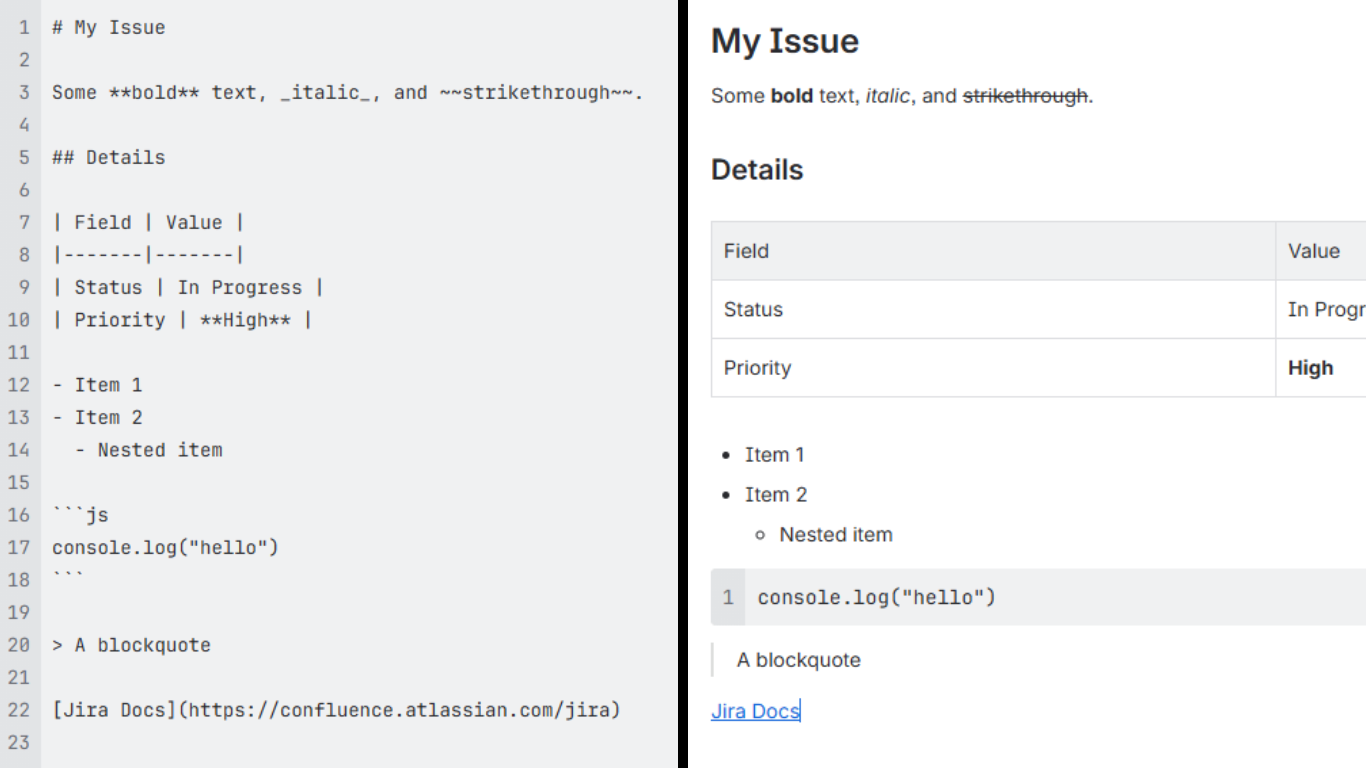
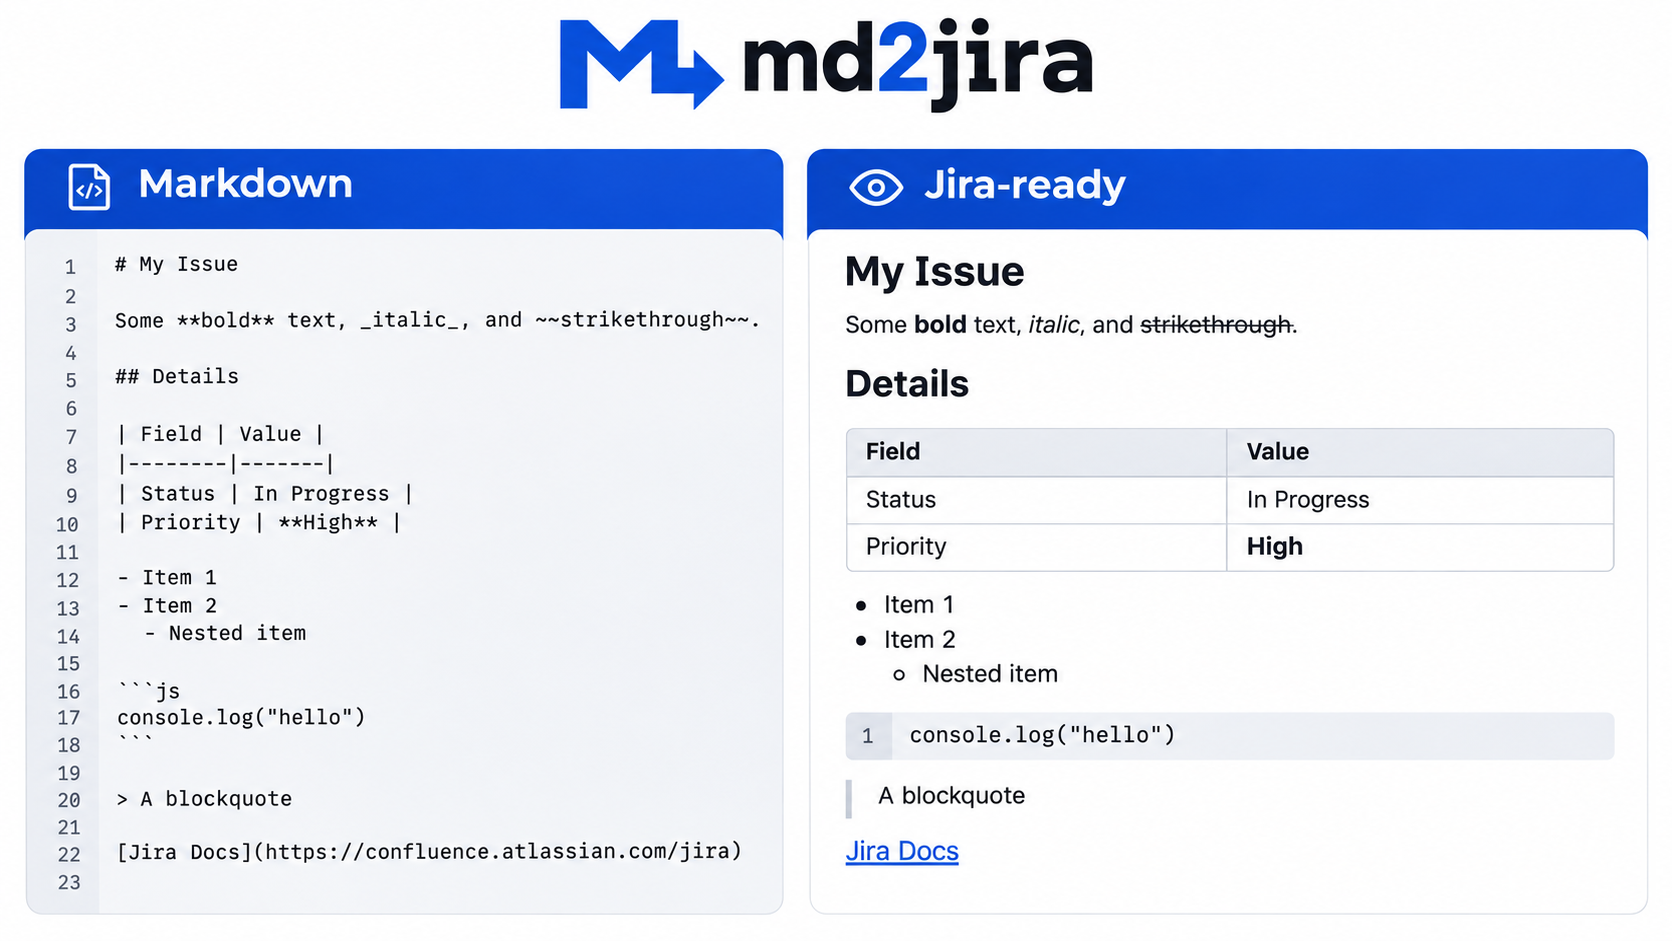
docs: preserve md2jira design system
Why:
- Keep future visual changes aligned with the approved identity.

What:
- Preserve both original design images and document their usage.
- Reference the design system from AGENTS.md.
- Refresh documentation images without changing their filenames.
- Preserve the original Buy Me a Coffee artwork in the app capture.

Validation:
- Checked reference paths, formatting, and diff whitespace.
- Visually inspected the images and actual application capture.

Changed region(s): [[0.0, 0.0, 1.0, 1.0], [0.9531, 0.375, 1.0, 0.4375], [0.9224, 0.3125, 0.9839, 0.3438]]

diff --git a/output/brandkit/DESIGN.md b/output/brandkit/DESIGN.md
@@ -1,0 +1,51 @@
+# md2jira design system
+
+This directory preserves the approved visual identity and its original images. These files are design references; the application does not load them at runtime.
+
+## Approved references
+
+- [Identity concept board](md2jira-brand-concept.png): symbol, wordmark, palette, and examples of brand applications.
+- [Original transparent logo](md2jira-logo-transparent.png): horizontal logo artwork on a transparent background.
+
+Keep both originals and their filenames. Use the board as visual direction, not as a specification of application features or an exact screenshot of the interface.
+
+## Meaning and logo
+
+The symbol combines the **M of Markdown with a rightward conversion arrow** in one geometric shape. It represents transferring document structure between formats. The guiding phrase is: “Cambia el formato. Conserva la estructura.”
+
+- Write the brand as **md2jira**, in lowercase, with the numeral **2** highlighted in blue.
+- Preserve the symbol's proportions and integrated arrow. Do not stretch, redraw, or add effects to the mark independently across applications.
+- Use the existing vector geometry in `apps/web/public/icon.svg`, `apps/web/public/favicon.svg`, and `apps/web/src/components/Header.tsx` for production rendering. The PNG originals are raster references.
+- Use a white symbol on blue for app icons. The header uses a blue symbol with dark lettering in light mode and light lettering in dark mode.
+
+## Color
+
+| Role          | Approved reference |
+| ------------- | ------------------ |
+| Primary blue  | `#1D4ED8`          |
+| Ink           | `#111318`          |
+| Light surface | `#F5F6F8`          |
+| White         | `#FFFFFF`          |
+
+The interface retains its existing Tailwind neutral surfaces and text colors. In the header, `blue-700` is the light-mode accent and `blue-400` is the dark-mode accent. Preserve those existing theme adaptations and readable contrast; do not force every interface color to match the presentation board.
+
+## Typography and interface
+
+- Follow the bold sans-serif wordmark direction shown in the originals. No specific font family is established by the generated artwork; the current header uses the application's existing sans-serif stack, bold weight, and tight tracking.
+- Reserve monospace for Markdown, code, and syntax examples.
+- Keep the converter focused on its input and output, with restrained blue accents, clear alignment, and generous whitespace.
+- Reuse existing components, spacing, controls, and responsive behavior. Branding work alone does not authorize changing functionality or rebuilding the layout.
+- Keep the header readable on mobile and desktop in both themes. Decorative logo geometry must not add duplicate accessible names.
+
+## Icons and documentation images
+
+- The production icon source is `apps/web/public/icon.svg`; icon generation is configured in `pwa-assets.config.ts`.
+- Regenerate the existing PNG and ICO files with `pnpm exec pwa-assets-generator --config pwa-assets.config.ts` from the repository root when the source changes.
+- Preserve the opaque blue background for Apple and Android maskable icons and keep the symbol inside the maskable safe zone. Keep manifest and icon URLs compatible with deployments under `/md2jira/`.
+- Preserve the three existing filenames in `.github/assets` when updating documentation imagery.
+- Capture the actual application for the main overview image. Wait for the original Buy Me a Coffee image to load; do not capture its fallback button as if it were the original artwork.
+- Before/after illustrations must retain accurate Markdown and converted output and must not invent product features.
+
+## Verification
+
+For future visual changes, inspect the rendered result on desktop and mobile in light and dark themes. For icon changes, check generated sizes, asset URLs, and maskable cropping. Distinguish browser emulation from installation tests on physical Android or iOS devices.

diff --git a/AGENTS.md b/AGENTS.md
@@ -15,6 +15,18 @@
 
 ---
 
+## Design System
+
+For changes to the web interface, branding, icons, or documentation imagery, read and follow [the md2jira design system](output/brandkit/DESIGN.md) before editing.
+
+- Use the approved identity references preserved in `output/brandkit/`: `md2jira-brand-concept.png` and `md2jira-logo-transparent.png`.
+- Preserve the integrated Markdown M/right-arrow symbol, lowercase `md2jira` wordmark, blue accent, and existing light/dark interface patterns.
+- Use the existing SVG assets and header implementation for production geometry; the PNG references are design originals, not runtime dependencies.
+- Preserve the original Buy Me a Coffee artwork when capturing documentation images.
+- Keep visual changes within the requested scope. The concept board does not authorize redesigning the application or adding features.
+
+---
+
 ## Architecture Rules NON-NEGOTIABLE
 
 1. **`packages/core` must be 100% framework-agnostic.** Never import React, DOM APIs, `window`, `document`, or any browser-specific module inside `packages/core/`. Violations break CLI and VSCode extension compatibility.
